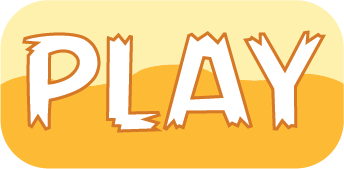
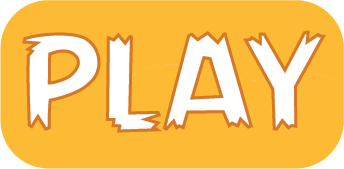
bird release debug

diff --git a/sketch.js b/sketch.js
@@ -15,6 +15,7 @@ let slingImg2;
 let mode;
 let backImgHome;
 let playImg;
+let Second;
 
 function preload() {
   birdImg = loadImage('images/bird.png');
@@ -24,11 +25,12 @@ function preload() {
   backgroundImg = loadImage('images/back2.png');
   slingImg1 = loadImage('images/sling1.png');
   slingImg2 = loadImage('images/sling2.png');
-  backImgHome = loadImage('images/homebg.jpg')
+  backImgHome = loadImage('images/homebg.jpg');
+  playImg = loadImage('images/playButton.png')
 }
 
 function setup() {
-  mode=0;
+  mode = 0;
   engine = Engine.create();
   world = engine.world;
 
@@ -40,7 +42,6 @@ function setup() {
   level1();
 
   bird = new Bird(250, 575, 25);
-
   slingshot = new Slingshot(250, 575, bird.body);
 
   const canvasMouse = Mouse.create(canvas.elt);
@@ -51,27 +52,9 @@ function setup() {
   mConstraint = MouseConstraint.create(engine, options);
 
   World.add(world, mConstraint);
-  
-}
+  // bird.mouseReleased(birdThrow);
 
-function keyPressed() {
-  if (mode == 1) {
-    if (key = ' ') {
-      World.remove(world, bird.body);
-      bird = new Bird(150, 300, 25);
-      slingshot.attach(bird.body);
-    }
-  }
 }
-
-function mouseReleased() {
-  if (mode == 1) {
-    setTimeout(() => {
-      slingshot.fly();
-    }, 80)
-  }
-}
-
 
 function level1() {
   boxes[0] = new ColumnBox(1000, 500, 19, 82);
@@ -88,8 +71,36 @@ function level1() {
   boxes[11] = new RowBox(1166, 300, 83, 21);
 }
 
-function draw() {
+function keyPressed() {
+  if (mode == 1) {
+    if (key = ' ') {
+      World.remove(world, bird.body);
+      bird = new Bird(250, 575, 25);
+      slingshot.attach(bird.body);
+    }
+  }
+}
 
+
+function mouseReleased() {
+  if (mode == 1 && Math.abs((second() - Second))>2) {
+    setTimeout(() => {
+      slingshot.fly();
+    }, 80)
+  }
+}
+
+function mousePressed() {
+  if (mode == 0) {
+    if (mouseX > 650 && mouseY > 375 && mouseX < 853 && mouseY < 475) {
+      Second = second();
+      mode = 1;
+    }
+  }
+}
+
+
+function draw() {
   if (mode == 0) {
     draw0();
   }
@@ -99,18 +110,10 @@ function draw() {
   }
 }
 
-function mousePressed(){
-  if (mode==0){
-    // if (mouseX<500 && mouseY<500){
-    //   mode=1;
-    // }
-  }
-}
-
 
 function draw0() {
   background(backImgHome);
-
+  image(playImg, 650, 375, 203, 100); //w/h ratio 2.03
 }
 
 function draw1() {

diff --git a/bird.js b/bird.js
@@ -12,7 +12,7 @@ class Bird {
         translate(pos.x, pos.y);
         rotate(angle);
         imageMode(CENTER);
-        image(birdImg, 0, 0, this.r*2, this.r*2);
+        image(birdImg, 0, 0, this.r * 2, this.r * 2);
         pop();
     }
 }
